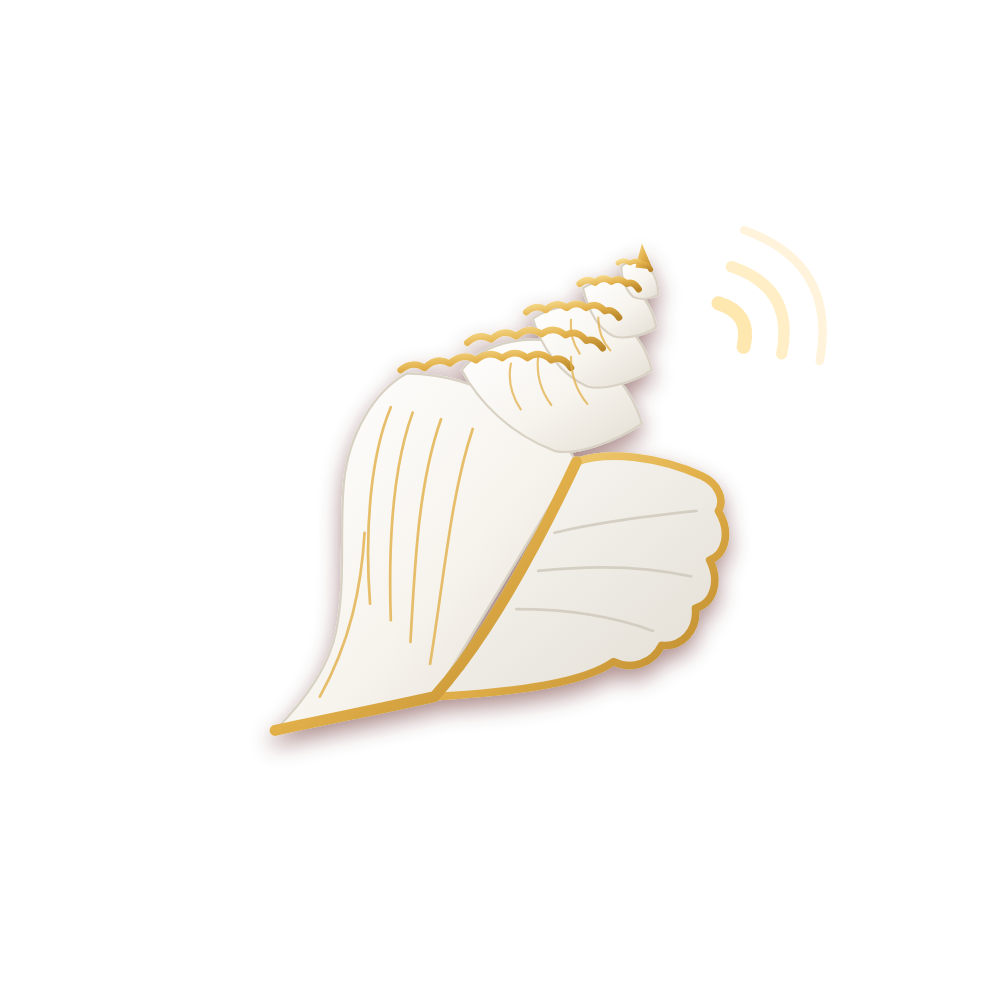
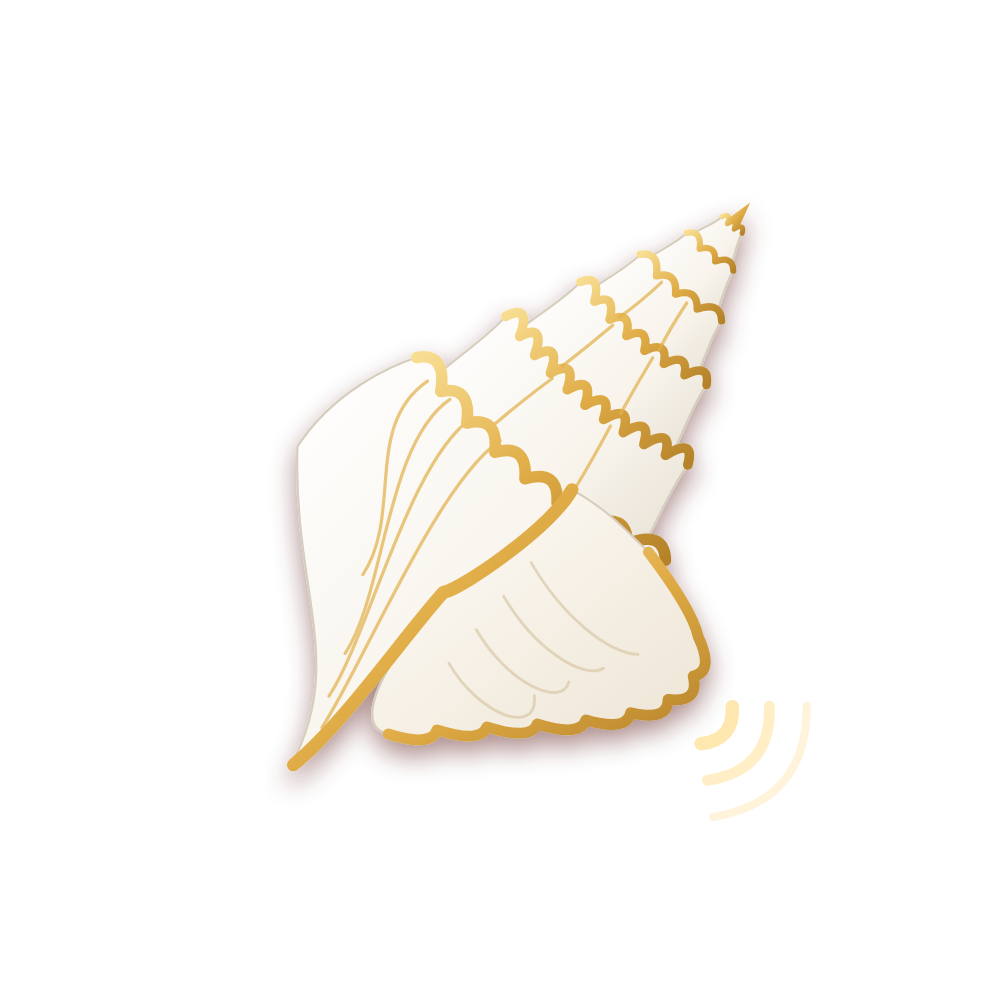
branding: redraw the conch along its axis so each gold crown sits on its whorl's edge
draw_conch.py builds every whorl and its scalloped gold crown from the same points,
steps the whorls out, attaches the flared lip at the shoulder. Larger adaptive
foreground (still inside the safe zone). Icons and splashes regenerated.

Changed region(s): [[0.248, 0.186, 0.837, 0.837]]

diff --git a/android-app/branding/draw_conch.py b/android-app/branding/draw_conch.py
@@ -1,0 +1,175 @@
+"""Draw the Pāñcajanya conch as an SVG, laid out along its axis so every gold crown sits exactly on its whorl's edge.
+
+    python draw_conch.py            -> conch_full.svg (icon with background + waves)
+
+The shell is built in (u, v): u runs along the axis from the apex (u=0) to the tail, v across it (+v is the lip side).
+Each whorl's top edge is one scalloped curve; the white fill and the gold rim are drawn from the *same* points.
+"""
+import math, os
+
+HERE = os.path.dirname(os.path.abspath(__file__))
+APEX, TAIL = (770.0, 120.0), (150.0, 880.0)
+L = math.dist(APEX, TAIL)
+D = ((TAIL[0] - APEX[0]) / L, (TAIL[1] - APEX[1]) / L)   # along the axis, apex -> tail
+N = (-D[1], D[0])                                           # across the axis
+if N[0] < 0:
+    N = (-N[0], -N[1])                                      # +v points to the right/down: the lip side
+
+
+def P(u, v):
+    return (APEX[0] + D[0] * u + N[0] * v, APEX[1] + D[1] * u + N[1] * v)
+
+
+def f(p):
+    return f"{p[0]:.1f} {p[1]:.1f}"
+
+
+SUTURES = [14, 62, 126, 208, 310, 432]          # u of each whorl's top edge; the last one is the body whorl
+def w_spire(u):
+    return 0.40 * u + 6
+
+
+def crown(u0, w, n=None, h=None, bow=None):
+    """Scalloped top edge from -w to +w at u0: base points + bump control points (bumps toward the apex)."""
+    n = n or max(3, round(2 * w / 34))
+    h = h if h is not None else min(22, 6 + w * 0.09)
+    bow = bow if bow is not None else 0.16 * w
+    pts = []
+    for k in range(n + 1):
+        t = -1 + 2 * k / n
+        pts.append((u0 + bow * (1 - t * t), t * w))
+    ctrl = []
+    for k in range(n):
+        (ua, va), (ub, vb) = pts[k], pts[k + 1]
+        ctrl.append(((ua + ub) / 2 - 2 * h, (va + vb) / 2))
+    return pts, ctrl
+
+
+def crown_d(pts, ctrl, start=True):
+    d = (f"M{f(P(*pts[0]))}" if start else f"L{f(P(*pts[0]))}")
+    for c, p in zip(ctrl, pts[1:]):
+        d += f" Q{f(P(*c))} {f(P(*p))}"
+    return d
+
+
+def whorl(u0, u1):
+    w0, w1 = 1.22 * w_spire(u0) + 4, w_spire(u1 + 18)
+    pts, ctrl = crown(u0, w0)
+    d = crown_d(pts, ctrl)
+    # right side down, bottom edge (bowed, hidden mostly by the next whorl), left side up
+    d += f" C{f(P(u0 + 0.4 * (u1 - u0), w0 + 2))} {f(P(u1, w1 + 4))} {f(P(u1 + 18, w1))}"
+    d += f" Q{f(P(u1 + 18 + 0.5 * (1.22 * w_spire(u1) + 4) * 0.16 * 2 + 30, 0))} {f(P(u1 + 18, -w1))}"  # base bows down under the next crown
+    d += f" C{f(P(u1, -w1 - 4))} {f(P(u0 + 0.4 * (u1 - u0), -w0 - 2))} {f(P(*pts[0]))} Z"
+    return d, crown_d(pts, ctrl)
+
+
+def body():
+    u0 = SUTURES[-1]
+    w0 = 1.22 * w_spire(u0) + 4
+    pts, ctrl = crown(u0, w0, n=8, h=20)
+    d = crown_d(pts, ctrl)
+    # right side runs a little way then hides under the lip
+    d += f" C{f(P(u0 + 40, w0 + 20))} {f(P(u0 + 120, w0 - 10))} {f(P(u0 + 200, 40))}"
+    # down the axis to the siphonal tail
+    d += f" C{f(P(u0 + 330, 20))} {f(P(L - 140, 12))} {f(P(L, 0))}"
+    # back up the left (outer, convex) side of the body whorl
+    d += f" C{f(P(L - 160, -30))} {f(P(u0 + 360, -150))} {f(P(u0 + 200, -w0 - 50))}"
+    d += f" C{f(P(u0 + 110, -w0 - 60))} {f(P(u0 + 30, -w0 - 20))} {f(P(*pts[0]))} Z"
+    return d, crown_d(pts, ctrl)
+
+
+def lip():
+    """The flared aperture lip on the +v side with a wavy gold outer edge."""
+    a, b = SUTURES[-1] + 6, L - 120            # where it leaves the body and where it rejoins near the tail
+    outer = []
+    n = 9
+    for k in range(n + 1):
+        t = k / n
+        u = a + (b - a) * t
+        v = w_spire(SUTURES[-1]) * 1.1 + 200 * math.sin(math.pi * t ** 0.65) * (1 - 0.55 * t) - 120 * t * t
+        outer.append((u, v))
+    d = f"M{f(P(a, 60))} C{f(P(a - 10, 120))} {f(P(a - 4, 150))} {f(P(*outer[0]))}"
+    for k in range(n):
+        (ua, va), (ub, vb) = outer[k], outer[k + 1]
+        mu, mv = (ua + ub) / 2, (va + vb) / 2
+        d += f" Q{f(P(mu, mv + 34))} {f(P(ub, vb))}"
+    inner = f" C{f(P(b + 30, 20))} {f(P(b - 120, 8))} {f(P(b - 200, 12))} C{f(P(a + 200, 30))} {f(P(a + 60, 70))} {f(P(a, 60))} Z"
+    rim = d.split(" C", 1)[0]  # start point
+    rim_d = f"M{f(P(*outer[0]))}" + d.split(f"{f(P(*outer[0]))}", 1)[1]
+    inner_edge = f"M{f(P(a, 60))} C{f(P(a + 60, 70))} {f(P(a + 200, 30))} {f(P(b - 200, 12))} C{f(P(b - 120, 8))} {f(P(b + 30, 20))} {f(P(L - 4, 2))}"
+    return d + inner, rim_d, inner_edge
+
+
+def ribs():
+    out = []
+    u0 = SUTURES[-1]
+    for v0, v1, uend in [(-150, -40, u0 + 380), (-110, -20, u0 + 440), (-60, 0, u0 + 480), (-190, -90, u0 + 280)]:
+        out.append(f"M{f(P(u0 + 16, v0))} C{f(P(u0 + 120, v0 - 30))} {f(P(uend - 100, v1 - 10))} {f(P(uend, v1))}")
+    for i in range(len(SUTURES) - 1):   # short ribs on each spire whorl, running down from the crown
+        s0, s1 = SUTURES[i], SUTURES[i + 1]
+        w = w_spire(s0)
+        if w > 40:
+            for t in (-0.45, 0.35):
+                out.append(f"M{f(P(s0 + 0.2 * w, t * w))} Q{f(P((s0 + s1) / 2 + 10, t * w * 1.2))} {f(P(s1 + 4, t * w_spire(s1)))}")
+    return out
+
+
+def lip_lines():
+    a, b = SUTURES[-1] + 60, L - 220
+    return [f"M{f(P(a + k * 60, 80))} C{f(P(a + k * 60 + 30, 160))} {f(P(a + k * 50 + 40, 240))} {f(P(a + k * 45 + 20, 300 - k * 25))}" for k in range(1, 5)]
+
+
+def shell_svg():
+    parts = []
+    whorls = []
+    for i in range(len(SUTURES) - 1):
+        whorls.append(whorl(SUTURES[i], SUTURES[i + 1]))
+    bd, bcrown = body()
+    ld, lrim, ledge = lip()
+    gold = 'stroke="url(#gold)" stroke-linecap="round" stroke-linejoin="round" fill="none"'
+    # draw from the apex down: each lower whorl's crown overlaps the base of the one above it
+    for i, (d, cr) in enumerate(whorls):
+        parts.append(f'<path d="{d}" fill="url(#shell)" stroke="#d6cdbd" stroke-width="3"/>')
+        parts.append(f'<path d="{cr}" {gold} stroke-width="{7 + i * 1.6:.1f}"/>')
+    parts.append(f'<path d="{bd}" fill="url(#shell)" stroke="#d6cdbd" stroke-width="3"/>')
+    parts.append('<g fill="none" stroke="#e2b04a" stroke-width="4.5" stroke-linecap="round" opacity=".7">' + "".join(f'<path d="{r}"/>' for r in ribs()) + "</g>")
+    parts.append(f'<path d="{bcrown}" {gold} stroke-width="16"/>')
+    parts.append(f'<path d="{ld}" fill="url(#inner)" stroke="#d6cdbd" stroke-width="3"/>')
+    parts.append('<g fill="none" stroke="#d9c9a8" stroke-width="4" stroke-linecap="round" opacity=".7">' + "".join(f'<path d="{r}"/>' for r in lip_lines()) + "</g>")
+    parts.append(f'<path d="{lrim}" {gold} stroke-width="15"/>')
+    parts.append(f'<path d="{ledge}" {gold} stroke-width="18"/>')
+    a = P(-26, 0)
+    parts.append(f'<path d="M{f(a)} L{f(P(12, -10))} L{f(P(12, 10))} Z" fill="url(#gold)"/>')
+    return "\n    ".join(parts)
+
+
+DEFS = """<defs>
+    <radialGradient id="bg" cx="42%" cy="32%" r="85%"><stop offset="0" stop-color="#f39a3a"/><stop offset=".55" stop-color="#d65a20"/><stop offset="1" stop-color="#8f2414"/></radialGradient>
+    <linearGradient id="shell" x1="0" y1="0" x2="1" y2="1"><stop offset="0" stop-color="#ffffff"/><stop offset=".6" stop-color="#f8f4ec"/><stop offset="1" stop-color="#e6dfd2"/></linearGradient>
+    <linearGradient id="inner" x1="0" y1="0" x2="1" y2="1"><stop offset="0" stop-color="#fffdf8"/><stop offset="1" stop-color="#ede4d4"/></linearGradient>
+    <linearGradient id="gold" x1="0" y1="0" x2="1" y2="1"><stop offset="0" stop-color="#f8de92"/><stop offset=".5" stop-color="#e0ac46"/><stop offset="1" stop-color="#b5822a"/></linearGradient>
+    <filter id="sh" x="-20%" y="-20%" width="140%" height="140%"><feDropShadow dx="0" dy="16" stdDeviation="18" flood-color="#4a0f06" flood-opacity=".45"/></filter>
+  </defs>"""
+WAVES = """<g fill="none" stroke="#ffe7b0" stroke-linecap="round" transform="translate(758 768) rotate(40) scale(.8)">
+    <path d="M0 -36 q 34 36 0 72" stroke-width="20"/><path d="M42 -72 q 64 72 0 144" stroke-width="16" opacity=".72"/><path d="M84 -108 q 92 108 0 216" stroke-width="12" opacity=".45"/>
+  </g>"""
+
+
+def main():
+    svg = f"""<svg xmlns="http://www.w3.org/2000/svg" viewBox="0 0 1000 1000">
+  <!-- Pāñcajanya, generated by draw_conch.py: white shell, gold crowns on each whorl, flared gold lip. -->
+  {DEFS}
+  <rect width="1000" height="1000" fill="url(#bg)"/>
+  <circle cx="500" cy="500" r="390" fill="none" stroke="#ffd9a0" stroke-opacity=".14" stroke-width="3"/>
+  <g transform="translate(500 490) scale(.86) translate(-440 -500)" filter="url(#sh)">
+    {shell_svg()}
+  </g>
+  {WAVES}
+</svg>
+"""
+    open(os.path.join(HERE, "conch_full.svg"), "w").write(svg)
+    print("wrote conch_full.svg")
+
+
+if __name__ == "__main__":
+    main()

diff --git a/android-app/branding/make_icons.py b/android-app/branding/make_icons.py
@@ -37,7 +37,7 @@ def layers(src):
         body = re.sub(r'<circle[^>]*stroke-opacity="\.1\d"[^>]*/>', "", body)
         vb = re.search(r'viewBox="0 0 (\d+) (\d+)"', s).group(1)
         c = int(vb) / 2
-        body = re.sub(r"(<svg[^>]*>)", r'\1<g transform="translate(%g %g) scale(.7) translate(-%g -%g)">' % (c, c, c, c), body, count=1).replace("</svg>", "</g></svg>")
+        body = re.sub(r"(<svg[^>]*>)", r'\1<g transform="translate(%g %g) scale(.84) translate(-%g -%g)">' % (c, c, c, c), body, count=1).replace("</svg>", "</g></svg>")
         fg = chrome_png(body, 1000, os.path.join(OUT, "fg_1000.png"))
     else:
         art = Image.open(src).convert("RGBA")
